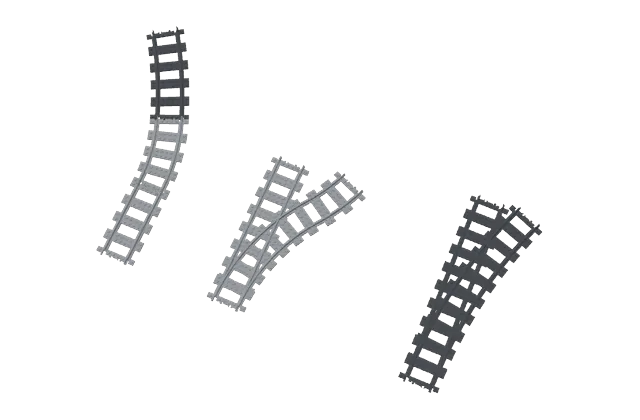
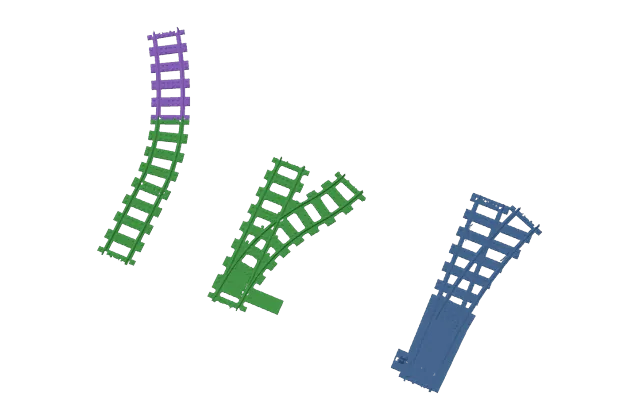
fix: review's small items
- CI: minimatch (eslint's) pinned to 11.0.5 past GHSA-g3hv-75wg-m249,
  the OSV scan's failure on main.
- The LEGO switch templates print their switch (Bought track: Printed):
  bought, they had nothing to print.
- Tables' outlines and names in the plan's ink colours (dark mode).
- An any-shape table's corners: a note when they aren't x, y pairs or
  fewer than 3, not ignored without a word.
- Curved tables: their angles' direction said (0° right, counterclockwise,
  not a route's heading).
- The Tables panel says so when tables aren't used (not Track pieces).
- Bought track: shorter help; its pictures in the 3D view's colours.

Changed region(s): [[0.5938, 0.4643, 0.8438, 0.9286], [0.3125, 0.3714, 0.5938, 0.7429], [0.1562, 0.0619, 0.3125, 0.65]]

diff --git a/src/app/main.ts b/src/app/main.ts
@@ -184,6 +184,7 @@ function renderTables() {
     btn('+ Curved', () => { const [x, y] = at(); add({ shape: 'arc', cx: x, cy: y, r0: 32, r1: 64, a0: 0, a1: 90 }); }, 'Add a curved table: a quarter ring, radius 32 to 64 studs round a centre'),
     btn('+ Any shape', () => { const [x, y] = at(); add({ shape: 'poly', pts: [[x - 16, y - 16], [x + 16, y - 16], [x + 24, y + 16], [x - 16, y + 16]] }); }, 'Add a table of any shape: its corners in studs'));
   body.append(bar);
+  if (ts.length && (design.options?.splitTrack ?? OPTION_DEFAULTS.splitTrack) !== 'lengths') { const p = document.createElement('div'); p.className = 'tnote'; p.style.color = 'var(--warn, #c0392b)'; p.textContent = 'Not used now: tables cut the track only with Long track cut into: Track pieces (Settings › Print bed and cutting into parts).'; body.append(p); }
   if (!ts.length) { const p = document.createElement('div'); p.className = 'tnote'; p.textContent = 'No tables. With tables, the track is cut where one meets the next: plain track at an ordinary track end; bought track\'s printed ballast along the seam. Only with Long track cut into: Track pieces.'; body.append(p); }
   ts.forEach((t, k) => {
     const card = document.createElement('div'); card.className = 'tcard';
@@ -203,11 +204,17 @@ function renderTables() {
     } else {
       const ta = document.createElement('textarea'); ta.rows = 2; ta.value = t.pts.map((p) => `${+p[0].toFixed(3)}, ${+p[1].toFixed(3)}`).join('; ');
       ta.title = 'Its corners in studs, x, y each, in order round it, separated by ;';
-      ta.addEventListener('change', () => { const pts = ta.value.split(';').map((v) => v.split(',').map(Number)).filter((v) => v.length === 2 && v.every(Number.isFinite)) as [number, number][]; if (pts.length >= 3) { t.pts = pts; changed(true); } });
-      f.append(field('corners (x, y; …)', ta));
+      const bad = document.createElement('div'); bad.className = 'tnote'; bad.style.color = 'var(--warn, #c0392b)';
+      ta.addEventListener('change', () => {
+        const parts = ta.value.split(';').map((v) => v.trim()).filter(Boolean), pts = parts.map((v) => v.split(',').map((x) => Number(x.trim())));
+        const wrong = parts.filter((_, k) => pts[k].length !== 2 || !pts[k].every(Number.isFinite));
+        bad.textContent = wrong.length ? `Not x, y: ${wrong.slice(0, 3).join('; ')}. Kept the corners as they were.` : pts.length < 3 ? 'It needs 3 corners at least. Kept the corners as they were.' : '';
+        if (!bad.textContent) { t.pts = pts as [number, number][]; changed(true); }
+      });
+      f.append(field('corners (x, y; …)', ta), bad);
     }
     const note = document.createElement('div'); note.className = 'tnote';
-    note.textContent = t.shape === 'rect' ? 'Studs: its corner (x, y), width (x) and length (y).' : t.shape === 'arc' ? 'Studs: round its centre, from the inner radius to the outer, between two angles (0° along x, counterclockwise). A centre on a curve\'s centre puts the seams square across the track.' : '';
+    note.textContent = t.shape === 'rect' ? 'Studs: its corner (x, y), width (x) and length (y).' : t.shape === 'arc' ? 'Studs: round its centre, from the inner radius to the outer. Angles: 0° points right (+x), 90° up (+y), counterclockwise (not a route\'s heading, where 0° is up). A centre on a curve\'s centre puts the seams square across the track.' : '';
     card.append(head, f, ...(note.textContent ? [note] : []));
     body.append(card);
   });
@@ -1237,8 +1244,8 @@ const OPTION_FORM: OptSection[] = [
       { v: 'split', t: 'Cut in half', tip: 'Cut straight through with the rest.', con: 'Half studs either side of the joint: a brick won\'t sit on them.' }] },
   ] },
   { title: 'Bought track', kind: 'train', fields: [
-    { key: 'legoTrack', label: 'Bought track', help: 'Plain track and switches bought where they\'re the same as LEGO\'s or BrickTracks\'. Bought straights are 16 studs, whatever Piece length is. In the 3D view LEGO\'s are green, BrickTracks\' purple (Bought hides them). Pictures: printed blue, LEGO\'s light grey, BrickTracks\' dark grey.', off: (c) => (c.o.splitTrack !== 'lengths' ? 'only with Long track cut into: Track pieces' : design.gaugeStuds !== 4 ? 'LEGO track is 4 studs between the rails: the gauge isn\'t 4' : undefined), choices: [
-      { v: 'lego', t: 'Bought: LEGO\'s and BrickTracks\'', tip: 'Plain track bought, not printed: each 16-stud straight is LEGO\'s (53401), with ballast on LEGO plates under it (6 x 16 and two 2 x 16, two more 6 x 16 for the buddy layer); R40 curves are LEGO\'s (53400) and R56 to R120 curves BrickTracks\' (injection moulded, 11.25° each), with ballast on a printed ballast piece (…-ballast, with the buddy layer if set) they drop into; with a Flat ballast underside, BrickTracks\' curves on BrickTracks\' own ballast and buddy, bought too. BrickTracks\' 1/2, 1/4 and 1/10 straights (8, 4 and 1.6 studs) and their R104B siding curve too. Switches too, where they\'re exactly theirs with no other track over them: LEGO\'s (53407 left, 53404 right: 32 studs, as the LEGO switch templates) and BrickTracks\' R104 (40 studs; the branch an R104 curve of 22.5° ending 8 studs over); on ballast, a printed ballast piece (switch-ballast) the switch sits down into. Bought pieces side by side (beside a switch, a passing loop) are all bought, their ballast printed in one piece under them. Bought parts are in the parts list (toolbar), not the STL download.', con: 'Their sleepers and underside are theirs, not as set here.' },
+    { key: 'legoTrack', label: 'Bought track', help: 'Track bought, not printed, wherever it\'s exactly a piece LEGO or BrickTracks sell. Bought parts are in the parts list (toolbar), not the STL download. In the 3D view and the pictures: LEGO\'s green, BrickTracks\' purple.', off: (c) => (c.o.splitTrack !== 'lengths' ? 'only with Long track cut into: Track pieces' : design.gaugeStuds !== 4 ? 'LEGO track is 4 studs between the rails: the gauge isn\'t 4' : undefined), choices: [
+      { v: 'lego', t: 'Bought: LEGO\'s and BrickTracks\'', tip: 'Bought: LEGO\'s 16-stud straights (53401, ballast on LEGO plates), R40 curves (53400) and switches (53407, 53404); BrickTracks\' R56 to R120 curves, R104B curve, 1/2, 1/4 and 1/10 straights and R104 switches. On ballast, a printed ballast piece each drops into (see Bought track\'s ballast); on a Flat ballast underside, BrickTracks\' curves on their own ballast and buddy. Pieces only where they fit exactly, with no other track over them.', con: 'Their sleepers and underside are theirs, not as set here.' },
       { v: 'lego-only', t: 'Bought: LEGO\'s only', tip: 'LEGO\'s straights (53401), R40 curves (53400) and switches (53407, 53404) bought, as Bought: LEGO\'s and BrickTracks\'; every other piece printed, BrickTracks\' curves and switches too.', con: 'Their sleepers and underside are theirs, not as set here.' },
       { v: 'print', t: 'Printed', tip: 'Every piece printed, as set here: nothing bought.', con: 'More to print.' }] },
     { key: 'boughtBallast', label: 'Bought track\'s ballast', get: () => design.options?.boughtBallast ?? 'each', set: (v) => { design.options = { ...design.options, boughtBallast: v as 'each' | 'together' }; }, def: 'each',

diff --git a/test/bought-switches.test.ts b/test/bought-switches.test.ts
@@ -12,12 +12,13 @@ const printed = (b: Built) => b.pieces.filter((p) => !p.lego);
 const withOpts = (d: Design, o: Partial<PieceOptions>): Design => ({ ...d, options: { ...d.options, ...o } as Design['options'] });
 
 describe('switches bought as track pieces, as plain track is', { timeout: 600000 }, () => {
-  it('LEGO\'s switch points (the LEGO templates): bought, nothing printed; Printed: built as a switch', async () => {
+  it('LEGO\'s switch points (the LEGO templates, set to buy): bought, nothing printed; as the templates are, Printed: built as a switch', async () => {
     const saved = { ...OPTION_DEFAULTS };
     Object.assign(OPTION_DEFAULTS, APP);
     try {
       const w = await kernel();
-      const l = buildDesign(w, TEMPLATES['Left switch (LEGO)']), r = buildDesign(w, TEMPLATES['Right switch (LEGO)']);
+      // (the templates print theirs: bought, set so)
+      const l = buildDesign(w, withOpts(TEMPLATES['Left switch (LEGO)'], { legoTrack: 'lego' })), r = buildDesign(w, withOpts(TEMPLATES['Right switch (LEGO)'], { legoTrack: 'lego' }));
       expect(l.info.warnings).toEqual([]);
       expect([count(l, '53407'), count(l, '53404'), printed(l).length]).toEqual([1, 0, 0]);
       expect([count(r, '53407'), count(r, '53404'), printed(r).length]).toEqual([0, 1, 0]);
@@ -89,7 +90,7 @@ describe('switches bought as track pieces, as plain track is', { timeout: 600000
     try {
       const w = await kernel();
       for (const ballast of ['ballast', 'buddy'] as const) {
-        const b = buildDesign(w, withOpts(TEMPLATES['Left switch (LEGO)'], { ballast }));
+        const b = buildDesign(w, withOpts(TEMPLATES['Left switch (LEGO)'], { ballast, legoTrack: 'lego' }));
         expect(b.info.warnings).toEqual([]);
         expect(count(b, '53407')).toBe(1);
         // (one part, as the switch is; longer than the 256 mm bed, in two, cut across between its sleepers)
@@ -123,7 +124,7 @@ describe('switches bought as track pieces, as plain track is', { timeout: 600000
       // (BrickTracks' 1/2 and 1/4 straights, two tracks 9 studs apart, their ballast meeting: 4 ballast parts, or one)
       expect(printed(each)).toHaveLength(4);
       expect(printed(together)).toHaveLength(1);
-      const sw = buildDesign(w, withOpts(TEMPLATES['Left switch (LEGO)'], { ballast: 'ballast', boughtBallast: 'together' }));
+      const sw = buildDesign(w, withOpts(TEMPLATES['Left switch (LEGO)'], { ballast: 'ballast', boughtBallast: 'together', legoTrack: 'lego' }));
       expect(sw.info.warnings).toEqual([]);
       expect(printed(sw).length).toBeGreaterThan(1);
     } finally { Object.assign(OPTION_DEFAULTS, saved); }

diff --git a/src/app/design.ts b/src/app/design.ts
@@ -451,11 +451,12 @@ export const TEMPLATES: Record<string, Design> = {
   ] },
   // Switches: LEGO's (R40, out to 36.87 degrees and back to 22.5, so one more
   // R40 curve makes a parallel track 16 studs over), a wye and a three-way.
-  'Left switch (LEGO)': { version: 1, gaugeStuds: 4, routes: [
+  // (printed: as bought they're LEGO's own switch, nothing to print)
+  'Left switch (LEGO)': { version: 1, gaugeStuds: 4, options: { legoTrack: 'print' }, routes: [
     { name: 'Straight', x: 0, y: 0, heading: 0, segs: [{ kind: 'straight', studs: 32 }] },
     { name: 'Branch', x: 0, y: 0, heading: 0, segs: [{ kind: 'curve', radius: 40, angle: 36.8699 }, { kind: 'curve', radius: 40, angle: -14.3699 }] },
   ] },
-  'Right switch (LEGO)': { version: 1, gaugeStuds: 4, routes: [
+  'Right switch (LEGO)': { version: 1, gaugeStuds: 4, options: { legoTrack: 'print' }, routes: [
     { name: 'Straight', x: 0, y: 0, heading: 0, segs: [{ kind: 'straight', studs: 32 }] },
     { name: 'Branch', x: 0, y: 0, heading: 0, segs: [{ kind: 'curve', radius: 40, angle: -36.8699 }, { kind: 'curve', radius: 40, angle: 14.3699 }] },
   ] },

diff --git a/src/app/canvas.ts b/src/app/canvas.ts
@@ -833,10 +833,10 @@ export class TrackCanvas {
       if (pts.length < 3) return;
       c.beginPath(); pts.forEach(([x, y], i) => { const [sx, sy] = this.toScreen(x, y); if (i) c.lineTo(sx, sy); else c.moveTo(sx, sy); }); c.closePath();
       c.globalAlpha = 0.4; c.fillStyle = t.color ?? TABLE_COLORS[k % TABLE_COLORS.length]; c.fill(); c.globalAlpha = 1;
-      c.strokeStyle = 'rgba(40,40,40,0.55)'; c.lineWidth = 1.5; c.stroke();
+      c.strokeStyle = ink.rail; c.lineWidth = 1.5; c.stroke();
       if (t.name) {
         const m = pts.reduce((a, p) => [a[0] + p[0] / pts.length, a[1] + p[1] / pts.length], [0, 0]), [sx, sy] = this.toScreen(m[0], m[1]);
-        c.fillStyle = 'rgba(30,30,30,0.7)'; c.font = '12px system-ui, sans-serif'; c.textAlign = 'center'; c.fillText(t.name, sx, sy); c.textAlign = 'start';
+        c.fillStyle = ink.label; c.font = '12px system-ui, sans-serif'; c.textAlign = 'center'; c.fillText(t.name, sx, sy); c.textAlign = 'start';
       }
     });
     // baseplate edges, where the track is cut (Piece options)
